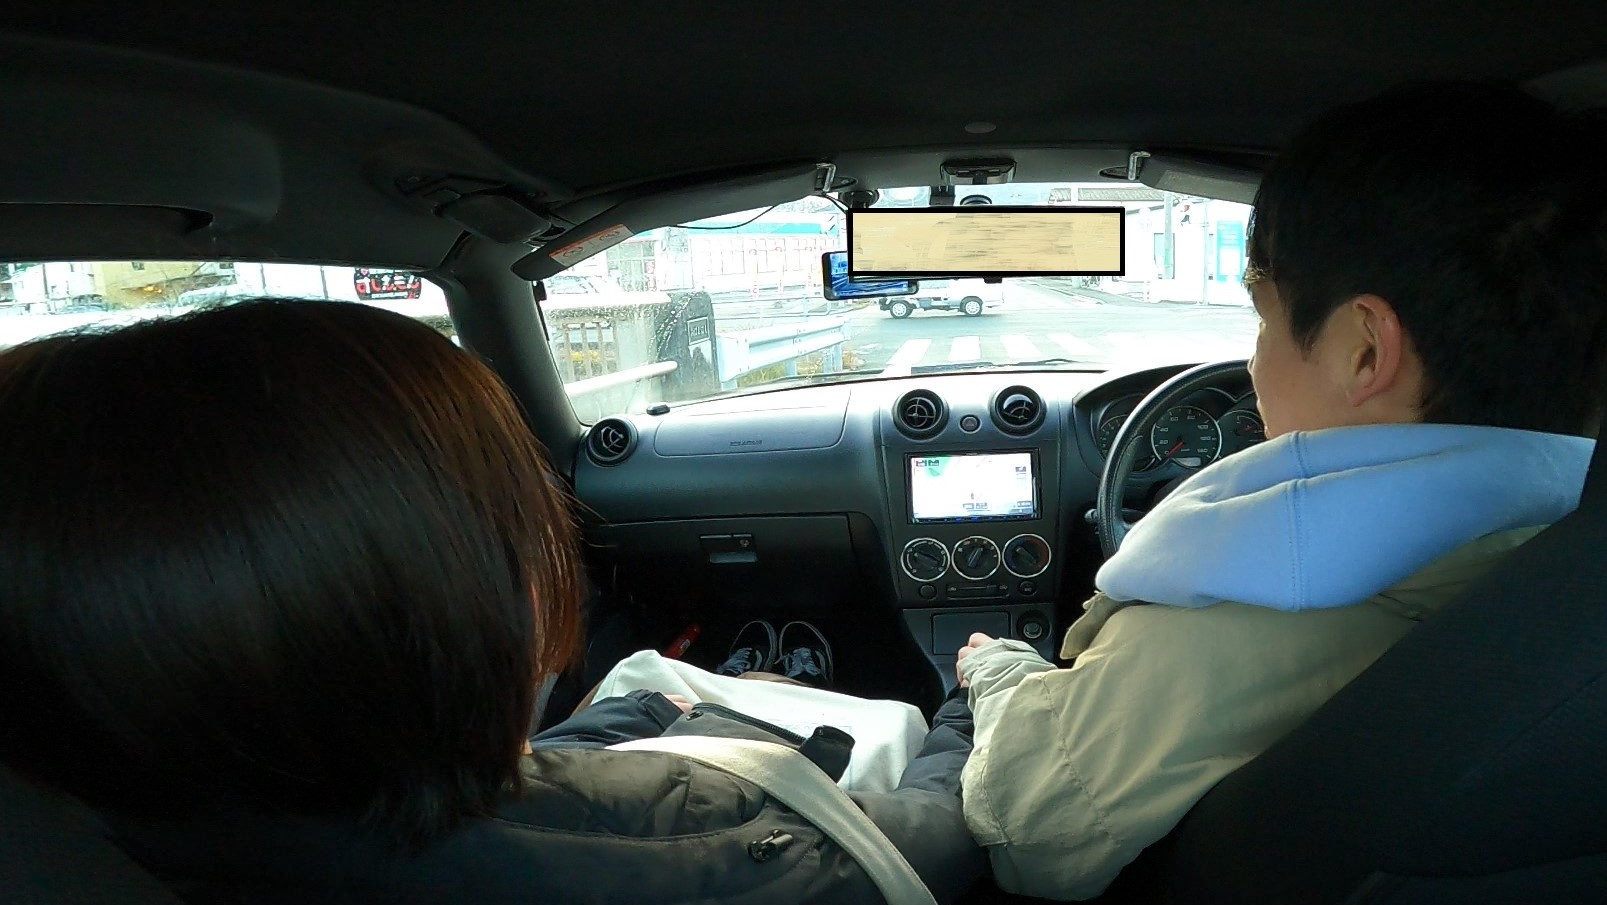
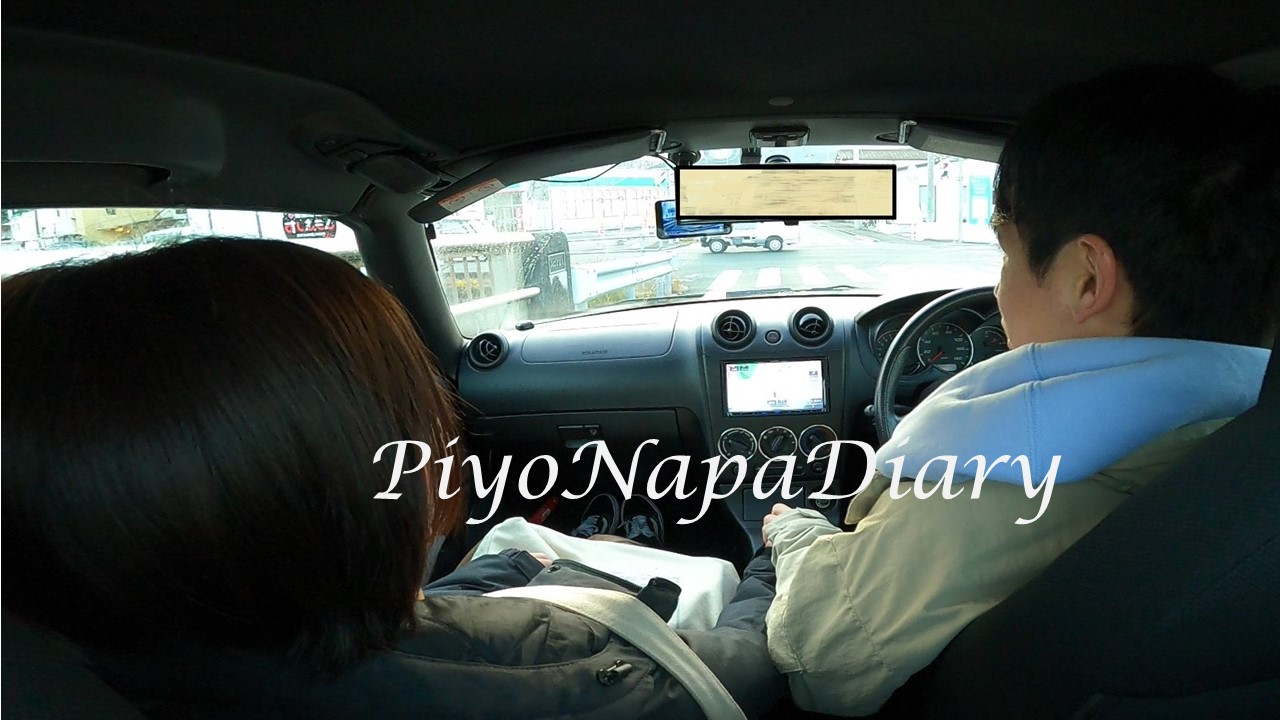
top画面を完成させました

diff --git a/index.html b/index.html
@@ -5,12 +5,9 @@
         <meta name="format-detection" content="telephone=no">
         <meta name="viewport" content="width=device-width,initial-scale=1,minimum-scale=1.0">
         <meta name="description" content="piyoNapa日記・・・地方在住の遠距離カップルがプログラミングを教えあったり、
-        車、バイクをいじってみたり、ドライブしたり、・・・等の日常を記録していく日記です。<br>
-        主に二人で作成したものをアップしていきます。"
-
-		<title>piyoNapa日記-遠距離地方カップルの手帳-</title>
-        <!-- titleにはSEO対策で関連キーワードを入れたい -->
-
+        車、バイクをいじってみたり、ドライブしたり、・・・等の日常を記録していく日記です。
+        主に二人で作成したものをアップしていきます。">
+        <title>piyoNapa-日記遠距離地方カップルの手帳-</title>
         <meta property="og:title" content="PiyoNapa日記-地方遠距離カップルのメモ-">
         <meta property="og:description" content="piyoNapa日記・・・地方在住の遠距離カップルがプログラミングを教えあったり、
         車、バイクをいじってみたり、ドライブしたり、・・・等の日常を記録していく日記です。<br>
@@ -26,39 +23,111 @@
         <meta name="twitter:card" content="summary_large_image">
 
         
+		<link rel="stylesheet" href="indexstyle.css">
 
-		<link rel="stylesheet" href="style.css">
+
+
+        <!-- タイトルのgoogle fonts -->
+        
+        <link rel="preconnect" href="https://fonts.googleapis.com">
+        <link rel="preconnect" href="https://fonts.gstatic.com" crossorigin>
+        <link href="https://fonts.googleapis.com/css2?family=Cookie&family=Kalam&family=Satisfy&family=Yellowtail&family=Yuji+Syuku&family=Zen+Kurenaido&display=swap" rel="stylesheet">
+        
+
+
+
+
+
+        <!-- タイトルのgoogle fonts -->
+        <link rel="preconnect" href="https://fonts.googleapis.com">
+        <link rel="preconnect" href="https://fonts.gstatic.com" crossorigin>
+        <link href="https://fonts.googleapis.com/css2?family=Cookie&family=Kalam&family=Satisfy&display=swap" rel="stylesheet">
+
+        <!-- head title spanのgoogle fonts -->
+
+        <link rel="preconnect" href="https://fonts.googleapis.com">
+        <link rel="preconnect" href="https://fonts.gstatic.com" crossorigin>
+        <link href="https://fonts.googleapis.com/css2?family=Cookie&family=Kalam&family=Satisfy&family=Yellowtail&family=Zen+Kurenaido&display=swap" rel="stylesheet">
 
 		<script src="sample.js"></script>
 	</head>
 
-	<body>
+	<body style="width: 1400px; background-color: antiquewhite;">
 
 
-		<header>
-            <div class="headtitle">
-                <img src="Picture\Header.jpg" alt="PiyoNapa and copen">
-                <p>piyonapa Diary</p>
-                <a>
+
+        <main>
+
+
+            <div class="toptitle">
+
+                <div class="blogname">
+
+                    <a href="">ぴよなぱ日記</a>
+                    <a href="">記日ぱなよぴ</a>
+                </div>    
+
+
+
+                <div class="topitem">
+                    <a href="">Piyo's Page</a>
+                    <a href="">Schedule</a>
+                    <a href="">task</a>
+
+                    <a href="">Napa's Page</a>
+
+                </div>    
+
+                <img class="headpic" src="Picture\Header.jpg" alt="PiyoNapa and copen">
+
+            </div>
+
+            <div class="maintitle">
+
+
+
+                
+
+
+                <!-- <p>PiyoNapa Diary</p>
+                <span>
                     地方在住の遠距離カップルがプログラミングを教えあったり、
                     車、バイクをいじってみたり、ドライブしたり、・・・等の日常を記録していく日記です。
                     主に二人で作成したものをアップしていきます。
-                    
-                </a>
+                </span> -->
+
+
     
             </div>
 
-        
-            <ul class="headnavilist">
-                <li class="navilistitem"><a href="https://twitter.com/napa_himeru">HOME</a></li>
+
+            <div class="toplist">
                 <li class="navilistitem"><a href="https://www.youtube.com/channel/UCFiwCIsSw8NlQ0724IlY9DQ">Piyo's</a></li>
                 <li class="navilistitem"><a href="a">Napa's</a></li>
-            </ul>
+            </div>
 
 
 
+            <div class="toppic-container">
+
+                    <img class="toppic" src="Picture\piyotop.JPG" alt="piyotop">
+
+                    <img class="toppic" src="Picture\napatop.PNG" alt="napatop">
+
+
+        
     
-		</header>
+            </div>
+
+
+
+
+
+
+
+
+
+        </main>
         
 
 

diff --git a/indexstyle.css b/indexstyle.css
@@ -1,0 +1,155 @@
+@charset "UTF-8";
+*, *::before, *::after {
+    box-sizing: border-box;
+    margin: 0px;
+    padding: 0px;
+}
+
+
+
+
+.toptitle{
+    width: 1400px;
+    position: relative;
+}
+
+.blogname{
+    width: 1400px;
+    position: relative;
+    display: flex;
+    justify-content: space-between;
+    /* box-shadow: 0 3px 0 #0092ca;
+    background: #00caee; */
+
+
+
+}
+
+.blogname a{
+
+    font-size: 60px;
+    display: block;
+    color: #030303;
+    /* color: #e5f2f5; */
+    text-decoration: none;
+    font-family: 'Cookie', cursive;
+    font-family: 'Kalam', cursive;
+    font-family: 'Satisfy', cursive;
+    font-family: 'Yellowtail', cursive;
+    font-family: 'Yuji Syuku', serif;
+    font-family: 'Zen Kurenaido', sans-serif;
+
+}
+
+
+.topitem{
+    width: 1400px;
+    /* background-color:rgba(40, 4, 241, 0.918); */
+    box-shadow: 0 3px 0 #0092ca;
+    background: #00acee;
+    display: flex;
+    justify-content: space-between;
+    position :absolute;
+}
+
+.topitem a[href]{
+    font-size: 50px;
+    text-decoration: none;
+    color: #e5f2f5;
+    padding-right: 50px;
+    padding-left: 50px;
+    font-weight: lighter;
+    font-family: 'Cookie', cursive;
+    font-family: 'Kalam', cursive;
+    font-family: 'Satisfy', cursive;
+
+}
+
+.headpic {
+    /* padding: 11px; */
+    background-color: #FFFFFF;
+    display: inline;
+    width: 1400px;
+}
+
+
+
+
+.maintitle{
+    width: 1400px;
+    position: relative;
+}
+
+
+.maintitle p {
+    position: absolute;
+    top: 55%;
+    left: 30%;
+    justify-content: space-around;
+    display: block;
+    color: whitesmoke;
+    font-size: 100px;
+    font-family: 'Cookie', cursive;
+    font-family: 'Kalam', cursive;
+    font-family: 'Satisfy', cursive;
+}
+
+
+.maintitle span{
+    display: block;
+    position: absolute;
+    top: 85%;
+    font-size: 25px;
+    color: white;
+    font-family: 'Cookie', cursive;
+    font-family: 'Kalam', cursive;
+    font-family: 'Satisfy', cursive;
+    font-family: 'Yellowtail', cursive;
+    font-family: 'Zen Kurenaido', sans-serif;
+}
+
+
+.toplist {
+
+    width: 1400px;
+    display: flex;
+    font-size: 40px;
+    font-style: italic;
+    font-family: 'Times New Roman', Times, serif;
+    justify-content: space-around;
+
+
+}
+
+.navilistitem {
+    list-style: none;
+
+}
+
+
+
+.toppic-container{
+    width: 100%;
+    background-color: blue;
+    display: flex;
+}
+
+.toppic {
+
+    width: 50%;
+    padding: 11px;
+    background-color: #FFFFFF;
+    box-shadow: 0 3px 18px -4px rgba(0, 0, 0, 0.8);
+}
+
+.toplist a[href] {
+
+    text-decoration: none;
+    color: cornflowerblue;
+    text-shadow: 1px 2px 3px #808080;
+
+
+}
+
+
+
